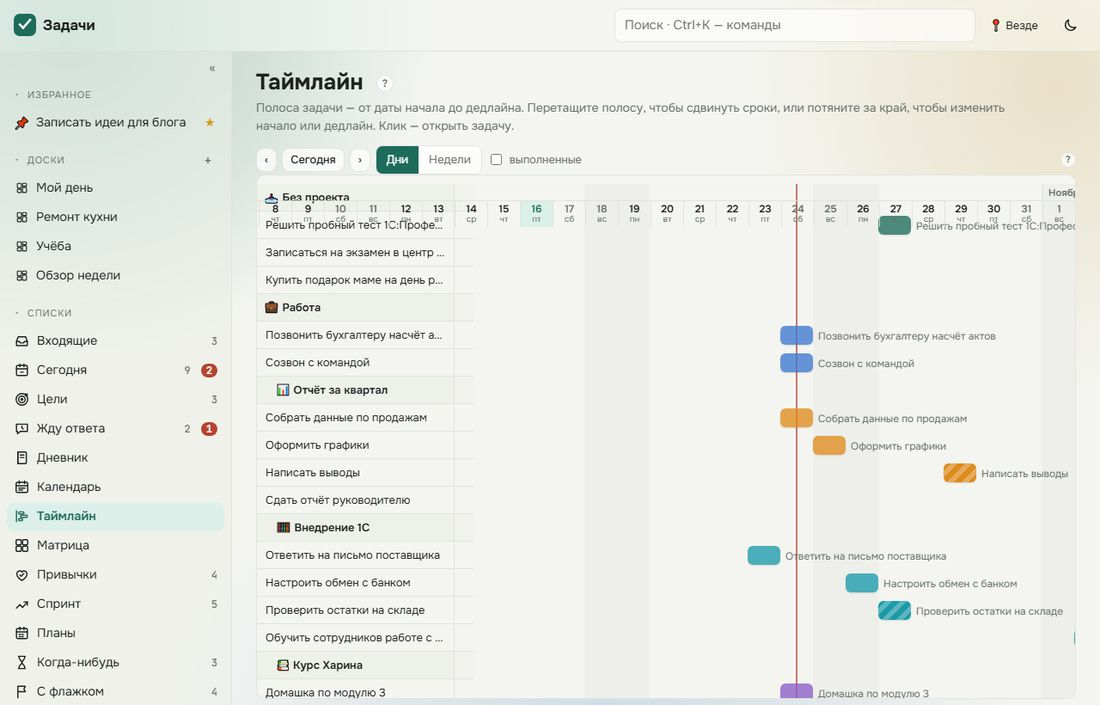
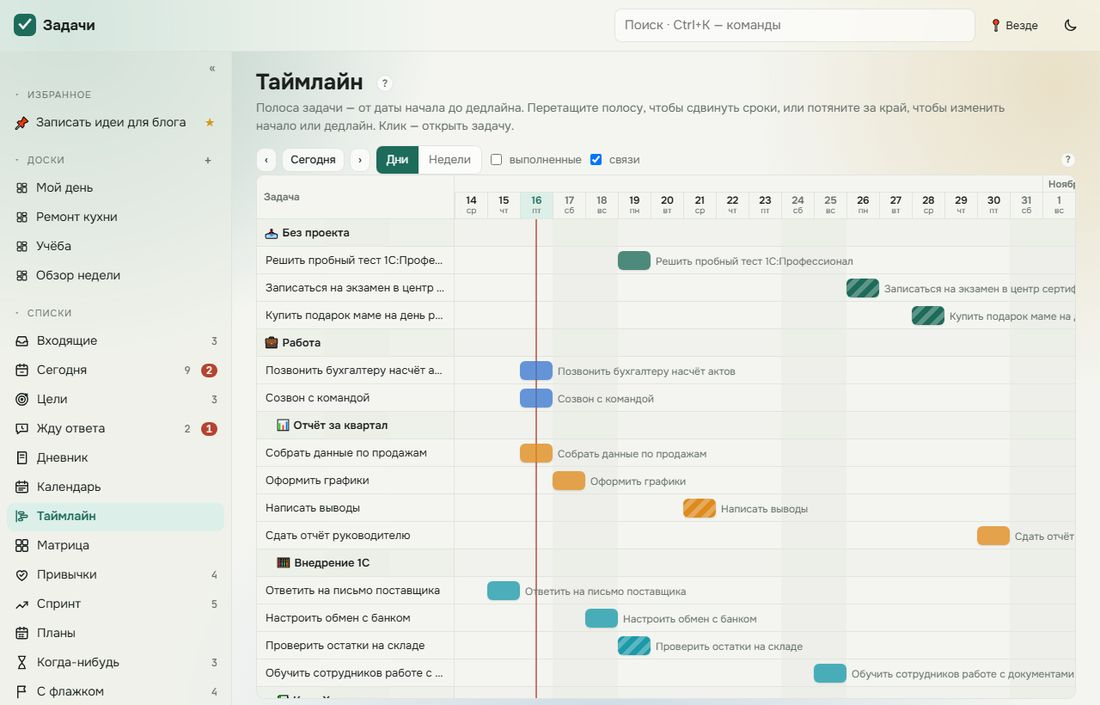
Задачи: стрелки связей на таймлайне; исправлены шкала таймлайна и полоски прогресса целей

diff --git a/zadachi/index.html b/zadachi/index.html
@@ -486,7 +486,7 @@ a.dchip { padding-right: 10px } .dchip a { color: var(--fg); text-decoration: no
 .ggrid { display: grid; grid-template-columns: repeat(auto-fill, minmax(260px, 1fr)); gap: 12px; margin-top: 10px; max-width: 1200px }
 .gcard { display: grid; gap: 6px; padding: 14px; border: 1px solid var(--line); border-top: 4px solid var(--gc); border-radius: 14px; background: var(--panel); color: var(--fg); text-decoration: none }
 .gcard:hover { border-color: var(--gc) } .gch { display: flex; gap: 8px; align-items: center } .gch b { font-size: calc(16px * var(--fs)) } .gic { font-size: calc(22px * var(--fs)) }
-.gbar { height: 8px; border-radius: 4px; background: var(--hover); overflow: hidden; flex: 1 } .gbar i { display: block; height: 100%; border-radius: 4px }
+.gpbar { height: 8px; border-radius: 4px; background: var(--hover); overflow: hidden; flex: 1 } .gpbar i { display: block; height: 100%; border-radius: 4px }
 .gpr { display: flex; gap: 8px; align-items: center; font: 700 calc(13px * var(--fs)) var(--mono) } .gdue { font-size: calc(12.5px * var(--fs)); color: var(--muted) } .gdue.late { color: var(--warn) } .gdue.soon { color: var(--acc) }
 .gnext { font-size: calc(13px * var(--fs)); color: var(--muted) } .gnext a { color: var(--fg) }
 .gicb { font-size: calc(26px * var(--fs)); border: 0; background: none; cursor: pointer; padding: 0 4px; border-radius: 8px } .gicb:hover { background: var(--hover) }
@@ -499,7 +499,7 @@ a.dchip { padding-right: 10px } .dchip a { color: var(--fg); text-decoration: no
 .gchip { display: inline-flex; gap: 6px; align-items: center; border-radius: 999px; padding: 3px 10px; font-size: calc(13px * var(--fs)); text-decoration: none; color: var(--fg); background: color-mix(in srgb, var(--gc) 14%, var(--panel)); border: 1px solid color-mix(in srgb, var(--gc) 45%, transparent) }
 .pgoal { margin: 6px 0 2px }
 .wgl { display: grid; gap: 8px } .wg { display: grid; grid-template-columns: minmax(0, 1fr) auto; gap: 3px 8px; text-decoration: none; color: var(--fg); padding: 4px 2px; border-radius: 8px }
-.wg:hover { background: var(--hover) } .wg .gbar { grid-column: 1 / -1 } .wg small { grid-column: 1 / -1; white-space: nowrap; overflow: hidden; text-overflow: ellipsis } .wgn { white-space: nowrap; overflow: hidden; text-overflow: ellipsis; font-weight: 600 } .wgp { font: 700 calc(13px * var(--fs)) var(--mono) }
+.wg:hover { background: var(--hover) } .wg .gpbar { grid-column: 1 / -1 } .wg small { grid-column: 1 / -1; white-space: nowrap; overflow: hidden; text-overflow: ellipsis } .wgn { white-space: nowrap; overflow: hidden; text-overflow: ellipsis; font-weight: 600 } .wgp { font: 700 calc(13px * var(--fs)) var(--mono) }
 /* план дня */
 .dpsteps { display: flex; gap: 6px; flex-wrap: wrap; margin: 14px 0 }
 .dpsteps button { display: inline-flex; gap: 8px; align-items: center; border: 1px solid var(--line); background: var(--panel); border-radius: 999px; padding: 5px 14px 5px 6px; cursor: pointer; color: var(--fg); font: inherit; font-size: calc(13.5px * var(--fs)) }
@@ -1009,7 +1009,7 @@ h2[data-col].dropin { outline: 2px dashed var(--acc); outline-offset: 2px; borde
 .gtbar { display: flex; flex-wrap: wrap; gap: 6px; align-items: center }
 .gchk { display: flex; gap: 5px; align-items: center; font-size: calc(13px * var(--fs)); color: var(--muted) }
 .gwrap { --glw: 230px; position: relative; overflow: auto; height: calc(100vh - 210px); min-height: 260px; border: 1px solid var(--line); border-radius: 10px; background: var(--bg); overscroll-behavior: contain }
-.ggrid { position: relative; min-width: 100% }
+.gwrap .ggrid { position: relative; min-width: 100%; display: block; max-width: none; margin: 0; gap: 0; grid-template-columns: none }
 .ghead { position: sticky; top: 0; z-index: 4; display: flex; background: var(--bg); border-bottom: 1px solid var(--line) }
 .glab { position: sticky; left: 0; z-index: 3; flex: none; width: var(--glw); background: var(--bg); border-right: 1px solid var(--line); padding: 0 8px; display: flex; align-items: center; gap: 6px; overflow: hidden; white-space: nowrap; font-size: calc(13px * var(--fs)) }
 .glab a { cursor: pointer; overflow: hidden; text-overflow: ellipsis; color: var(--fg) }
@@ -1034,6 +1034,11 @@ h2[data-col].dropin { outline: 2px dashed var(--acc); outline-offset: 2px; borde
 .grow.ggrp { background: color-mix(in srgb, var(--side) 60%, transparent) }
 .grow .dot { width: 8px; height: 8px; border-radius: 50%; flex: none }
 .gtrack { flex: none; position: relative; z-index: 1 }
+.garr { position: absolute; left: 0; top: 0; z-index: 1; pointer-events: none; overflow: visible }
+.garr path { fill: none; stroke: color-mix(in srgb, var(--fg) 55%, transparent); stroke-width: 1.6; stroke-linejoin: round; pointer-events: stroke }
+.garr path.bad { stroke: var(--warn); stroke-width: 2; stroke-dasharray: 5 3 } .garr path.ok { stroke: color-mix(in srgb, var(--muted) 60%, transparent) }
+.garr marker path { fill: color-mix(in srgb, var(--fg) 55%, transparent); stroke: none } .garr marker.bad path { fill: var(--warn) } .garr marker.ok path { fill: color-mix(in srgb, var(--muted) 60%, transparent) }
+.gbody:has(.gbar.drag) .garr { opacity: .15 }
 .gbar { position: absolute; top: 5px; height: 22px; border-radius: 6px; background: color-mix(in srgb, var(--bc) 78%, transparent); color: #fff; font-size: calc(12px * var(--fs)); line-height: 22px; padding: 0 8px; white-space: nowrap; overflow: hidden; text-overflow: ellipsis; cursor: grab; touch-action: pan-y; user-select: none; box-shadow: 0 1px 2px rgba(0,0,0,.12) }
 .gbar.short span { visibility: hidden }
 .gtrack:has(.gbar.drag) .gtx { display: none }
@@ -2066,7 +2071,7 @@ CREATE TABLE inbox (
   };
   // данные: сжатый JSON по 900 знаков в свойствах служебных папок app:/tasks/state/c000…
   var CHUNK = 900, ROOT = "app:/tasks/state", ROOT3 = "app:/tasks/s3", LEGACY_UNTIL = new Date("2026-12-31T00:00:00").getTime();
-  var APPV = "zd-app-2026-10-16-44";
+  var APPV = "zd-app-2026-10-16-45";
   function hash32(s) { var h = 0x811c9dc5; for (var i = 0; i < s.length; i++) { h ^= s.charCodeAt(i); h = Math.imul(h, 16777619); } return (h >>> 0).toString(36) + "." + s.length.toString(36); }
   // каноническая запись (ключи по алфавиту) — чтобы одинаковые данные на разных устройствах давали одинаковый отпечаток
   function canon(o) { if (Array.isArray(o)) return "[" + o.map(canon).join(",") + "]"; if (o && typeof o === "object") return "{" + Object.keys(o).sort().map(function (k) { return JSON.stringify(k) + ":" + canon(o[k]); }).join(",") + "}"; return JSON.stringify(o === undefined ? null : o); }
@@ -3652,7 +3657,8 @@ CREATE TABLE inbox (
     var h = head("Таймлайн", "Полоса задачи — от даты начала до дедлайна. Перетащите полосу, чтобы сдвинуть сроки, или потяните за край, чтобы изменить начало или дедлайн. Клик — открыть задачу.");
     h += '<div class="tbar gtbar"><button class="btn sm" type="button" data-a="g-prev" aria-label="Раньше">‹</button><button class="btn sm" type="button" data-a="g-today">Сегодня</button><button class="btn sm" type="button" data-a="g-next" aria-label="Позже">›</button>' +
       '<div class="seg"><button type="button" data-a="g-zoom" data-v="day" class="' + (GNT.zoom === "day" ? "on" : "") + '">Дни</button><button type="button" data-a="g-zoom" data-v="week" class="' + (GNT.zoom === "week" ? "on" : "") + '">Недели</button></div>' +
-      '<label class="gchk"><input type="checkbox" data-a="g-done"' + (showDone ? " checked" : "") + "> выполненные</label></div>";
+      '<label class="gchk"><input type="checkbox" data-a="g-done"' + (showDone ? " checked" : "") + "> выполненные</label>" +
+      '<label class="gchk" title="Стрелки «сначала сделать»: от задачи, которую ждут, к той, что ждёт. Красная — задача начинается раньше, чем закончится нужная"><input type="checkbox" data-a="g-deps"' + (LS.get("zd-gdeps") !== "0" ? " checked" : "") + "> связи</label></div>";
     if (!l.length) return h + '<div class="empty">Нет задач со сроками. Укажите задаче дату или дедлайн — она появится здесь.</div>';
     // шкала: месяцы и дни (или недели)
     var mo = "", dy = "", bg = "", i, cur = -1, ms0 = 0;
@@ -3690,7 +3696,34 @@ CREATE TABLE inbox (
       '<div class="gbody"><div class="gbg" style="width:' + W + 'px">' + bg + "</div>" + rows + "</div></div></div>";
     return h;
   }
+  function gArrows() {
+    var body = document.querySelector("#gwrap .gbody"); if (!body) return;
+    var old = body.querySelector(".garr"); if (old) old.remove();
+    if (LS.get("zd-gdeps") === "0") return;
+    var bars = {}; [].forEach.call(body.querySelectorAll(".gbar[data-gid]"), function (b) { bars[b.dataset.gid] = b; });
+    var br = body.getBoundingClientRect(), paths = "", n = 0;
+    Object.keys(bars).forEach(function (id) {
+      var t = task(id); if (!t || !(t.after || []).length) return;
+      var b2 = bars[id].getBoundingClientRect(), sp2 = gSpan(t);
+      t.after.forEach(function (aid) {
+        var a = task(aid), ab = bars[aid]; if (!a || !ab) return;
+        var b1 = ab.getBoundingClientRect(), sp1 = gSpan(a);
+        var x1 = b1.right - br.left, y1 = b1.top + b1.height / 2 - br.top, x2 = b2.left - br.left, y2 = b2.top + b2.height / 2 - br.top;
+        var bad = !a.done && sp1 && sp2 && sp2.s < sp1.e, d, k = 8, dn = y2 > y1 ? 1 : -1;
+        // выходим из нижнего (или верхнего) края полосы у её конца — так стрелка не перечёркивает подпись справа от полосы
+        var sx = x1 - Math.min(10, b1.width / 2), sy = dn > 0 ? b1.bottom - br.top : b1.top - br.top;
+        if (x2 - sx >= k) d = "M" + sx + " " + sy + "V" + y2 + "H" + (x2 - 2);
+        else { var my = y2 - dn * 15; d = "M" + sx + " " + sy + "V" + my + "H" + (x2 - k) + "V" + y2 + "H" + (x2 - 2); }
+        paths += '<path class="' + (bad ? "bad" : a.done ? "ok" : "") + '" d="' + d + '" marker-end="url(#garr' + (bad ? "b" : a.done ? "o" : "") + ')"><title>' + esc("«" + t.t + "» ждёт «" + a.t + "»" + (bad ? " — начинается раньше, чем закончится нужная задача" : a.done ? " — нужная задача уже сделана" : "")) + "</title></path>";
+        n++;
+      });
+    });
+    if (!n) return;
+    var mk = function (id, cls) { return '<marker id="' + id + '" class="' + cls + '" viewBox="0 0 8 8" refX="7" refY="4" markerWidth="7" markerHeight="7" orient="auto-start-reverse"><path d="M0 0L8 4L0 8z"/></marker>'; };
+    body.insertAdjacentHTML("afterbegin", '<svg class="garr" width="' + body.scrollWidth + '" height="' + body.scrollHeight + '" aria-hidden="true"><defs>' + mk("garr", "") + mk("garrb", "bad") + mk("garro", "ok") + "</defs>" + paths + "</svg>");
+  }
   function gAfter() {
+    try { gArrows(); } catch (er) { /* стрелки не мешают таймлайну */ }
     var w = $("gwrap"); if (!w) return;
     if (GNT.sl !== null) { w.scrollLeft = GNT.sl; w.scrollTop = GNT.st; }
     else if (!GNT.keep) w.scrollLeft = Math.max(0, (gIdx(today0()) - 2) * gPx());
@@ -3889,7 +3922,7 @@ CREATE TABLE inbox (
     return { pct: l.length ? Math.round(d / l.length * 100) : 0, txt: l.length ? d + " из " + l.length + " " + plural(l.length, ["задачи", "задач", "задач"]) : "пока нет задач" };
   }
   function goalNext(g, n) { return goalTasks(g).filter(function (t) { return !t.done && !t.parent; }).sort(cmpBy("smart")).slice(0, n || 1); }
-  function gBar(g, pr) { return '<div class="gbar"><i style="width:' + pr.pct + "%;background:" + col(g.c || 0) + '"></i></div>'; }
+  function gBar(g, pr) { return '<div class="gpbar"><i style="width:' + pr.pct + "%;background:" + col(g.c || 0) + '"></i></div>'; }
   function gDue(g) { if (!g.due) return ""; var dl = dleft(g.due); return '<span class="gdue ' + dl.c + '">' + (g.st === "done" ? "срок был " + dayName(g.due).toLowerCase() : "⏳ " + dl.t + " · " + esc(dayName(g.due).toLowerCase())) + "</span>"; }
   function goalChip(g) { if (!g) return ""; var pr = goalProg(g); return '<a class="gchip" href="#goal-' + g.id + '" title="Цель: ' + esc(g.n) + '" style="--gc:' + col(g.c || 0) + '">' + (g.ic || "🎯") + " " + esc(g.n) + " · " + pr.pct + "%</a>"; }
   function goalMenu(cur, pre) { return [{ c: pre + "", i: cur ? "" : "✓", l: "— без цели —" }].concat(goals().filter(function (g) { return (g.st || "active") === "active" || g.id === cur; }).map(function (g) { return { c: pre + g.id, i: g.ic || "🎯", l: g.n, k: cur === g.id ? "✓" : "" }; })).concat(["-", { c: pre + "__new", i: "＋", l: "Новая цель…" }]); }
@@ -4785,7 +4818,7 @@ CREATE TABLE inbox (
       lists: [["plans", "«Планы» по разделам: просроченное и каждый день на две недели вперёд"]],
       board: [["projboard", "Канбан проекта «Отчёт за квартал»: колонки по секциям"]],
       cal: [["cal", "Календарь, вид «Неделя»: задачи со временем на шкале часов, справа — задачи без срока"]],
-      gantt: [["gantt", "Таймлайн: полосы от даты начала до дедлайна, по проектам"]],
+      gantt: [["gantt", "Таймлайн: полосы от даты начала до дедлайна, по проектам"], ["ganttdeps", "Стрелки связей: «Укладка плитки» ждёт «Купить плитку» и «Демонтаж»"]],
       matrix: [["matrix", "Матрица Эйзенхауэра: важное/срочное, карточки перетаскиваются между квадрантами"]],
       tree: [["project", "Страница проекта: значок цели, описание с чек-листом, секции «Покупки» и «Работы»"], ["sideproj", "Меню проекта в левой панели: фокус, интервал проверки, «На доску», цель, архив"]],
       notes: [["note", "Заметка: раздел, теги заметок, текст с подсветкой и чек-листом"]],
@@ -4961,6 +4994,7 @@ CREATE TABLE inbox (
     h += sec("gantt", "Таймлайн (диаграмма Ганта)", ul([
       "Задачи со сроками на шкале дней, по проектам. Полоса — от даты начала до дедлайна; только дедлайн — штриховка; просроченная — красная обводка; короткие полосы подписаны справа.",
       "<b>Перетащите полосу</b> — начало и дедлайн сдвинутся вместе. <b>Левый край</b> — меняет начало, <b>правый</b> — дедлайн. Во время перетаскивания видны новые даты.",
+      "<b>Стрелки</b> показывают связи «Сначала сделать»: от задачи, которую ждут, к задаче, которая ждёт. <b>Красная пунктирная</b> — задача начинается раньше, чем закончится нужная: сдвиньте её полосу правее. Серая — нужная задача уже сделана. Галочка «связи» в панели прячет стрелки.",
       "Клик по полосе или названию открывает карточку. «‹ Сегодня ›» листают шкалу, «Дни / Недели» — масштаб, «выполненные» — показать закрытые."]));
     h += sec("matrix", "Матрица Эйзенхауэра", "<p>Открытые задачи делятся на четыре квадранта: важное (приоритет 1–2 или флажок) и срочное (просрочено или срок в ближайшие дни — сколько именно, выбирается над матрицей). Перетащите карточку в другой квадрант: «важно» ставит приоритет 2, «не важно» снимает приоритет и флажок, «срочно» ставит срок на сегодня, «не срочно» переносит на неделю вперёд.</p>");
 
@@ -5952,6 +5986,7 @@ CREATE TABLE inbox (
       case "g-today": GNT.from = 0; GNT.sl = null; GNT.keep = false; render(); return;
       case "g-zoom": GNT.zoom = el.dataset.v; LS.set("zd-gz", GNT.zoom); GNT.from = 0; GNT.sl = null; GNT.keep = false; render(); return;
       case "g-done": LS.set("zd-gdone", LS.get("zd-gdone") === "1" ? "0" : "1"); render(); return;
+      case "g-deps": LS.set("zd-gdeps", LS.get("zd-gdeps") === "0" ? "1" : "0"); render(); return;
       case "g-open": openTask(el.dataset.id); return;
       case "pdel-yes":
         var pd = proj(ARG); if (pd) { tasks().forEach(function (x) { if (x.pid === pd.id) { x.pid = ""; touch(x); } }); pkids(pd.id).forEach(function (c) { c.parent = pd.parent || ""; touch(c); }); pd.del = 1; touch(pd); save(); }

diff --git a/zadachi/sw.js b/zadachi/sw.js
@@ -1,5 +1,5 @@
 // Офлайн-кэш приложения «Задачи»
-const CACHE = 'zd-app-2026-10-16-44';
+const CACHE = 'zd-app-2026-10-16-45';
 const CORE = ['./', 'index.html', 'manifest.webmanifest', 'icon-192.png', 'icon-512.png', 'apple-touch-icon.png'];
 self.addEventListener('install', e => { e.waitUntil(caches.open(CACHE).then(c => c.addAll(CORE)).then(() => self.skipWaiting())); });
 self.addEventListener('activate', e => {
